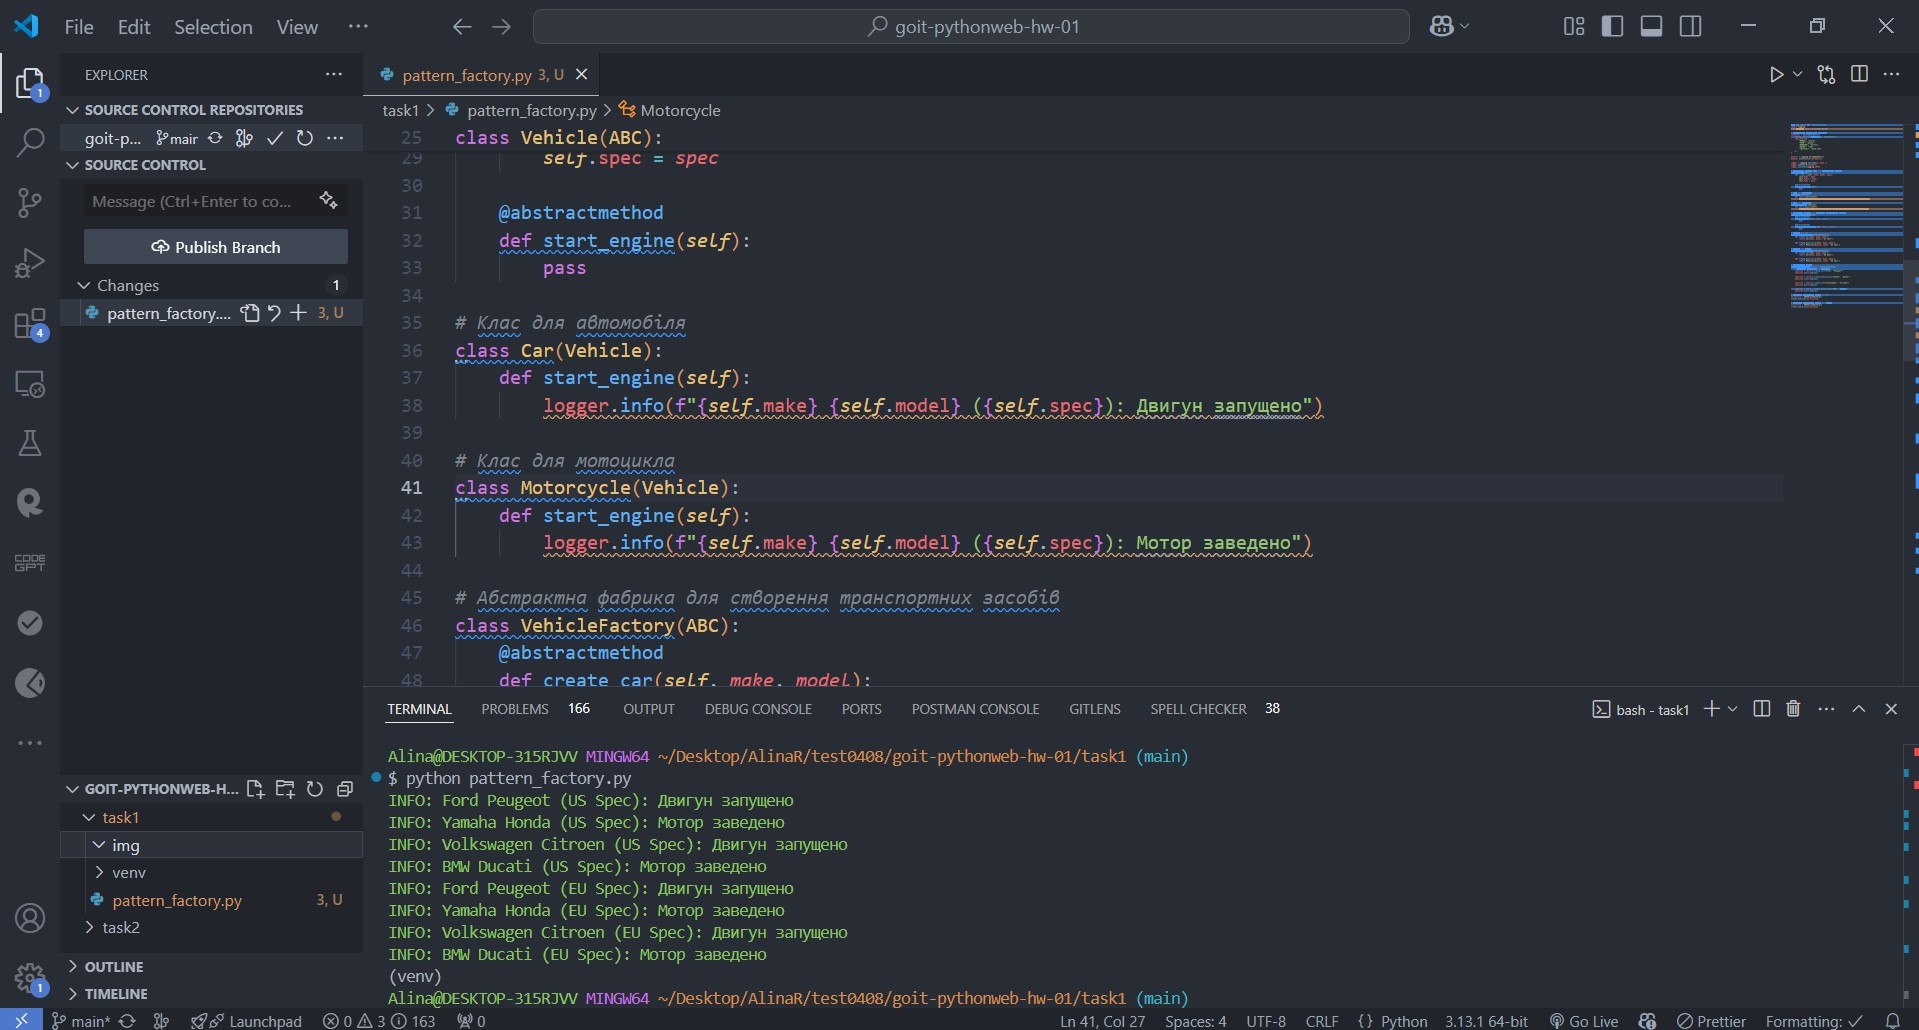
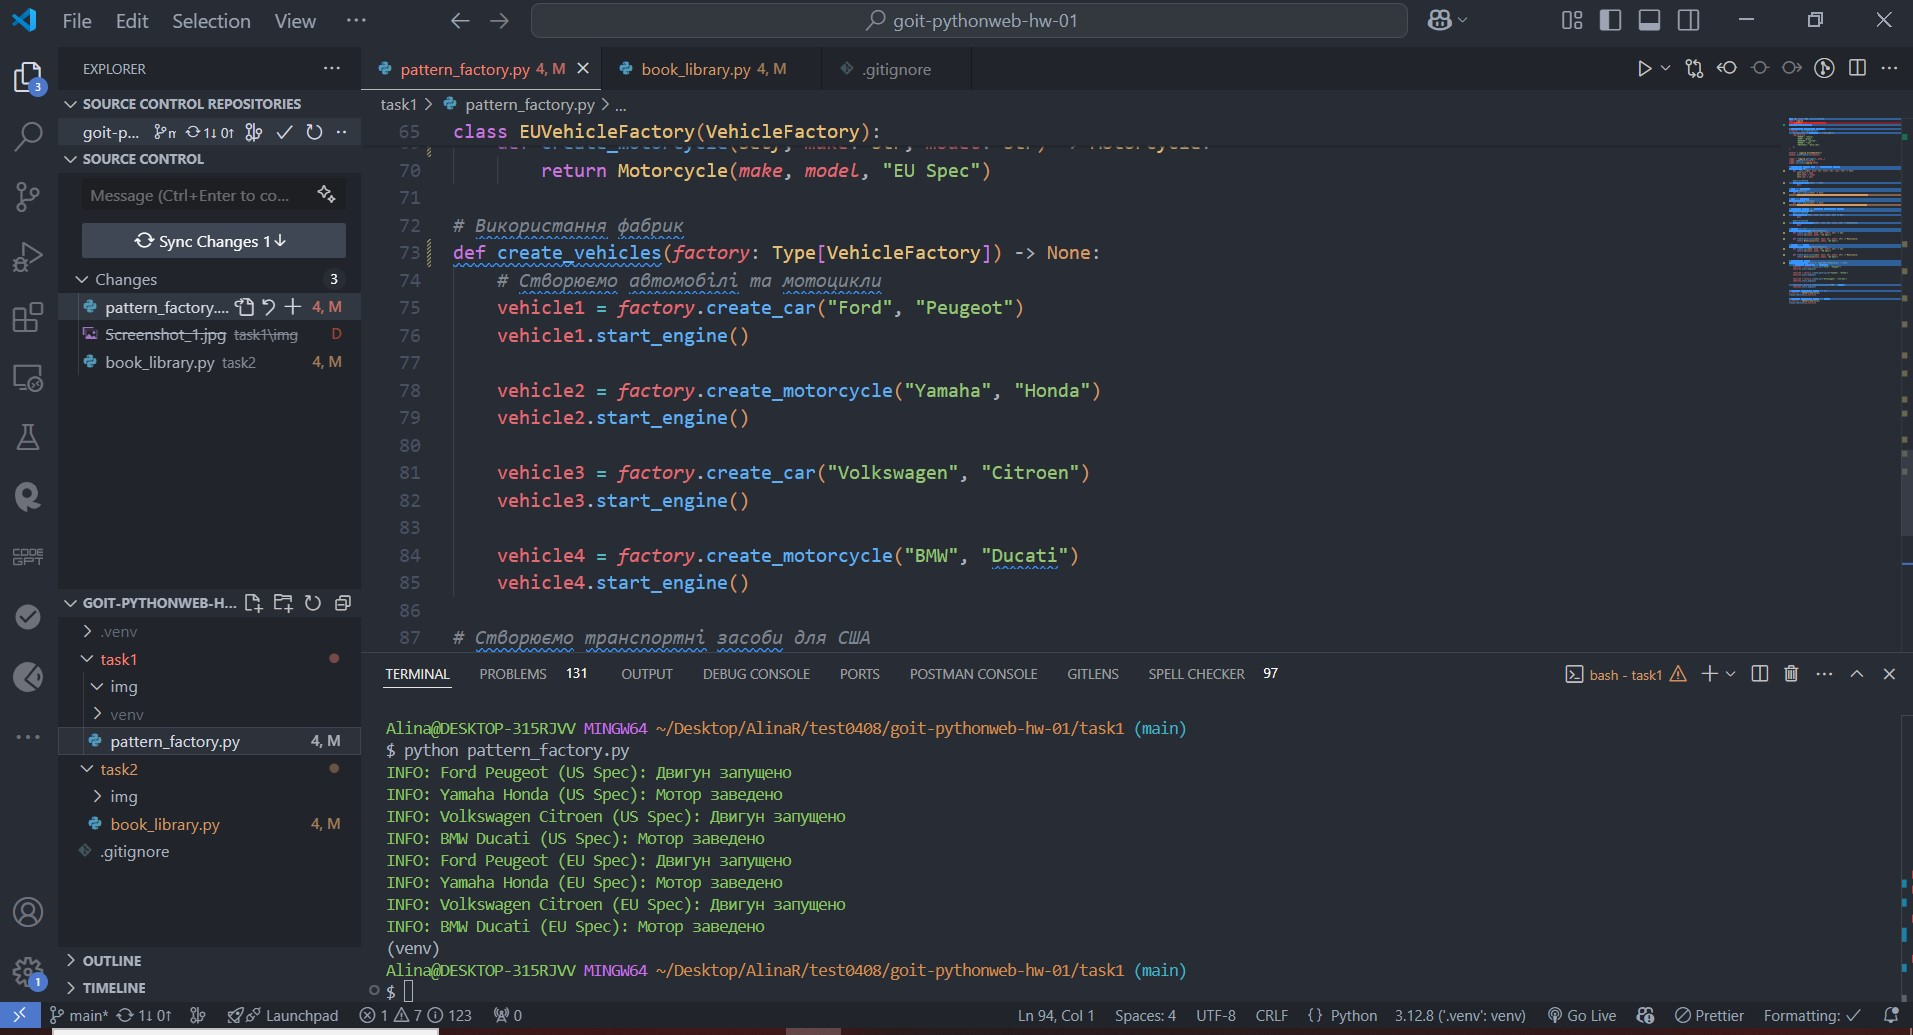
update

diff --git a/task2/book_library.py b/task2/book_library.py
@@ -1,8 +1,18 @@
 from abc import ABC, abstractmethod
+import logging
 from colorama import Fore, Style, init
+from typing import List
 
 # Ініціалізація бібліотеки colorama
 init(autoreset=True)
+
+# Налаштування логування
+logging.basicConfig(
+    level=logging.INFO,
+    format="%(asctime)s - %(levelname)s - %(message)s",
+    datefmt="%Y-%m-%d %H:%M:%S",
+)
+
 
 # Клас для представлення книги
 class Book:
@@ -11,10 +21,12 @@ class Book:
         self.author = author
         self.year = year
 
-    def __str__(self):
-        return f"{Fore.YELLOW}Title:{Style.RESET_ALL} {self.title}, " \
-               f"{Fore.CYAN}Author:{Style.RESET_ALL} {self.author}, " \
-               f"{Fore.GREEN}Year:{Style.RESET_ALL} {self.year}"
+    def __str__(self) -> str:
+        return (
+            f"{Fore.YELLOW}Title:{Style.RESET_ALL} {self.title}, "
+            f"{Fore.CYAN}Author:{Style.RESET_ALL} {self.author}, "
+            f"{Fore.GREEN}Year:{Style.RESET_ALL} {self.year}"
+        )
 
 
 # Інтерфейс бібліотеки
@@ -28,14 +40,14 @@ class LibraryInterface(ABC):
         pass
 
     @abstractmethod
-    def show_books(self) -> list:
+    def show_books(self) -> List[Book]:
         pass
 
 
 # Реалізація бібліотеки
 class Library(LibraryInterface):
     def __init__(self):
-        self.books = []
+        self.books: List[Book] = []
 
     def add_book(self, book: Book) -> None:
         self.books.append(book)
@@ -47,7 +59,7 @@ class Library(LibraryInterface):
                 return True
         return False
 
-    def show_books(self) -> list:
+    def show_books(self) -> List[Book]:
         return self.books
 
 
@@ -59,22 +71,22 @@ class LibraryManager:
     def add_book(self, title: str, author: str, year: int) -> None:
         book = Book(title, author, year)
         self.library.add_book(book)
-        print(f"{Fore.GREEN}[INFO]{Style.RESET_ALL} Book '{title}' added successfully!")
+        logging.info(f"Book '{title}' added successfully!")
 
     def remove_book(self, title: str) -> None:
         if self.library.remove_book(title):
-            print(f"{Fore.GREEN}[INFO]{Style.RESET_ALL} Book '{title}' removed successfully!")
+            logging.info(f"Book '{title}' removed successfully!")
         else:
-            print(f"{Fore.RED}[ERROR]{Style.RESET_ALL} Book '{title}' not found.")
+            logging.error(f"Book '{title}' not found.")
 
     def show_books(self) -> None:
         books = self.library.show_books()
         if books:
-            print(f"{Fore.BLUE}[INFO]{Style.RESET_ALL} Books in the library:")
+            logging.info("Books in the library:")
             for book in books:
                 print(f"  - {book}")
         else:
-            print(f"{Fore.YELLOW}[INFO]{Style.RESET_ALL} No books in the library.")
+            logging.info("No books in the library.")
 
 
 # Головна функція
@@ -93,17 +105,17 @@ def main():
                 try:
                     manager.add_book(title, author, int(year))
                 except ValueError:
-                    print(f"{Fore.RED}[ERROR]{Style.RESET_ALL} Year must be a number.")
+                    logging.error("Year must be a number.")
             case "remove":
                 title = input(f"{Fore.CYAN}Enter book title to remove:{Style.RESET_ALL} ").strip()
                 manager.remove_book(title)
             case "show":
                 manager.show_books()
             case "exit":
-                print(f"{Fore.GREEN}[INFO]{Style.RESET_ALL} Exiting the program.")
+                logging.info("Exiting the program.")
                 break
             case _:
-                print(f"{Fore.RED}[ERROR]{Style.RESET_ALL} Invalid command. Please try again.")
+                logging.error("Invalid command. Please try again.")
 
 
 if __name__ == "__main__":

diff --git a/task1/pattern_factory.py b/task1/pattern_factory.py
@@ -1,6 +1,7 @@
 from abc import ABC, abstractmethod
 import logging
 from colorlog import ColoredFormatter
+from typing import Type
 
 # Налаштування кольорового логування
 formatter = ColoredFormatter(
@@ -23,53 +24,53 @@ logger.setLevel(logging.INFO)
 
 # Абстрактний базовий клас для транспортних засобів
 class Vehicle(ABC):
-    def __init__(self, make, model, spec):
+    def __init__(self, make: str, model: str, spec: str) -> None:
         self.make = make
         self.model = model
         self.spec = spec
 
     @abstractmethod
-    def start_engine(self):
+    def start_engine(self) -> None:
         pass
 
 # Клас для автомобіля
 class Car(Vehicle):
-    def start_engine(self):
+    def start_engine(self) -> None:
         logger.info(f"{self.make} {self.model} ({self.spec}): Двигун запущено")
 
 # Клас для мотоцикла
 class Motorcycle(Vehicle):
-    def start_engine(self):
+    def start_engine(self) -> None:
         logger.info(f"{self.make} {self.model} ({self.spec}): Мотор заведено")
 
 # Абстрактна фабрика для створення транспортних засобів
 class VehicleFactory(ABC):
     @abstractmethod
-    def create_car(self, make, model):
+    def create_car(self, make: str, model: str) -> Car:
         pass
 
     @abstractmethod
-    def create_motorcycle(self, make, model):
+    def create_motorcycle(self, make: str, model: str) -> Motorcycle:
         pass
 
 # Фабрика для США
 class USVehicleFactory(VehicleFactory):
-    def create_car(self, make, model):
+    def create_car(self, make: str, model: str) -> Car:
         return Car(make, model, "US Spec")
 
-    def create_motorcycle(self, make, model):
+    def create_motorcycle(self, make: str, model: str) -> Motorcycle:
         return Motorcycle(make, model, "US Spec")
 
 # Фабрика для Європи
 class EUVehicleFactory(VehicleFactory):
-    def create_car(self, make, model):
+    def create_car(self, make: str, model: str) -> Car:
         return Car(make, model, "EU Spec")
 
-    def create_motorcycle(self, make, model):
+    def create_motorcycle(self, make: str, model: str) -> Motorcycle:
         return Motorcycle(make, model, "EU Spec")
 
 # Використання фабрик
-def create_vehicles(factory: VehicleFactory):
+def create_vehicles(factory: Type[VehicleFactory]) -> None:
     # Створюємо автомобілі та мотоцикли
     vehicle1 = factory.create_car("Ford", "Peugeot")
     vehicle1.start_engine()
